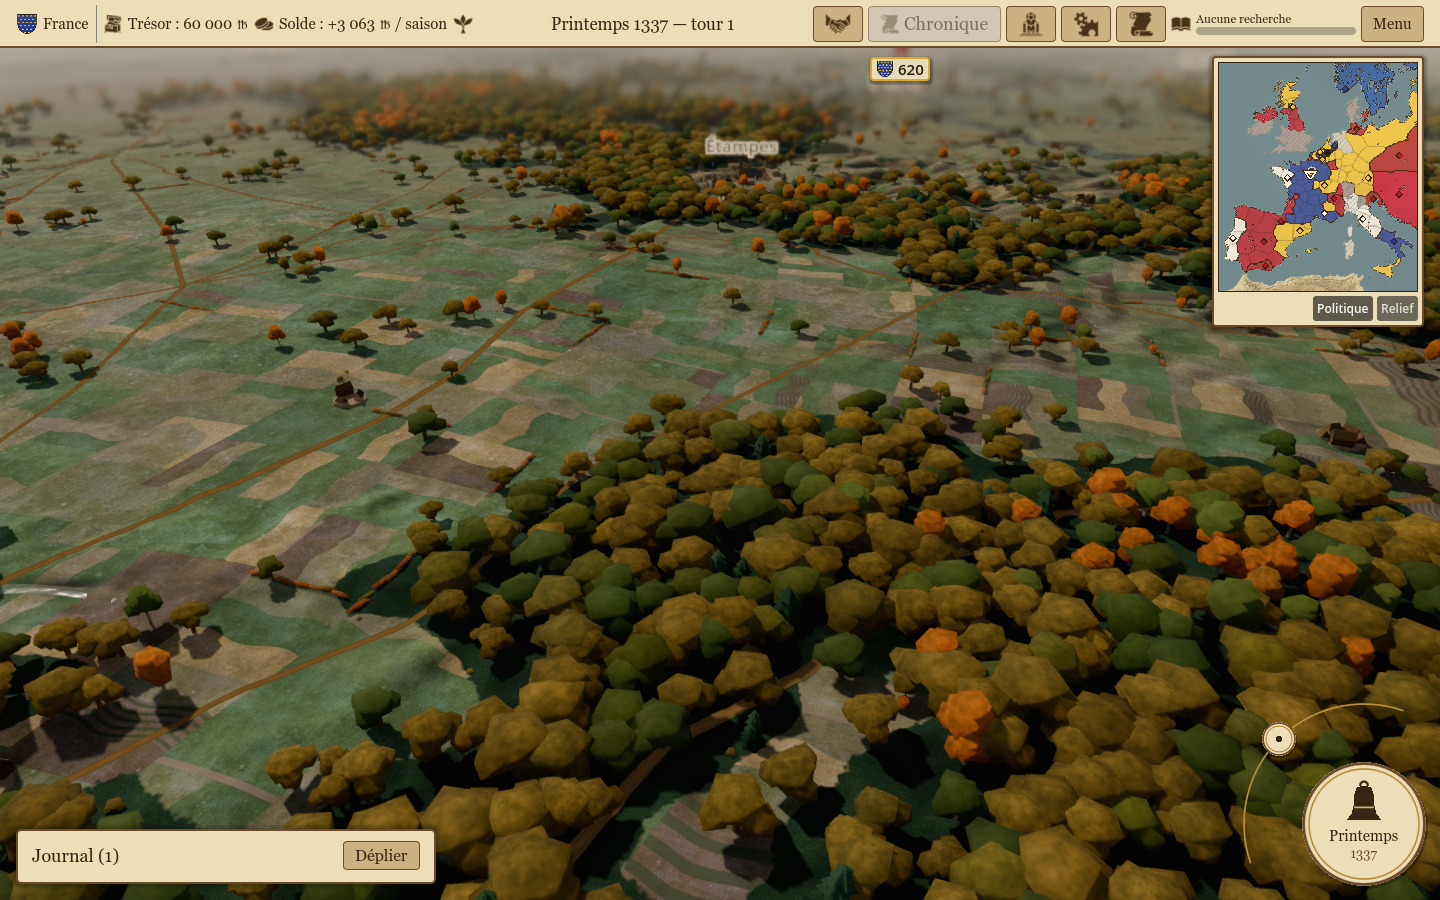
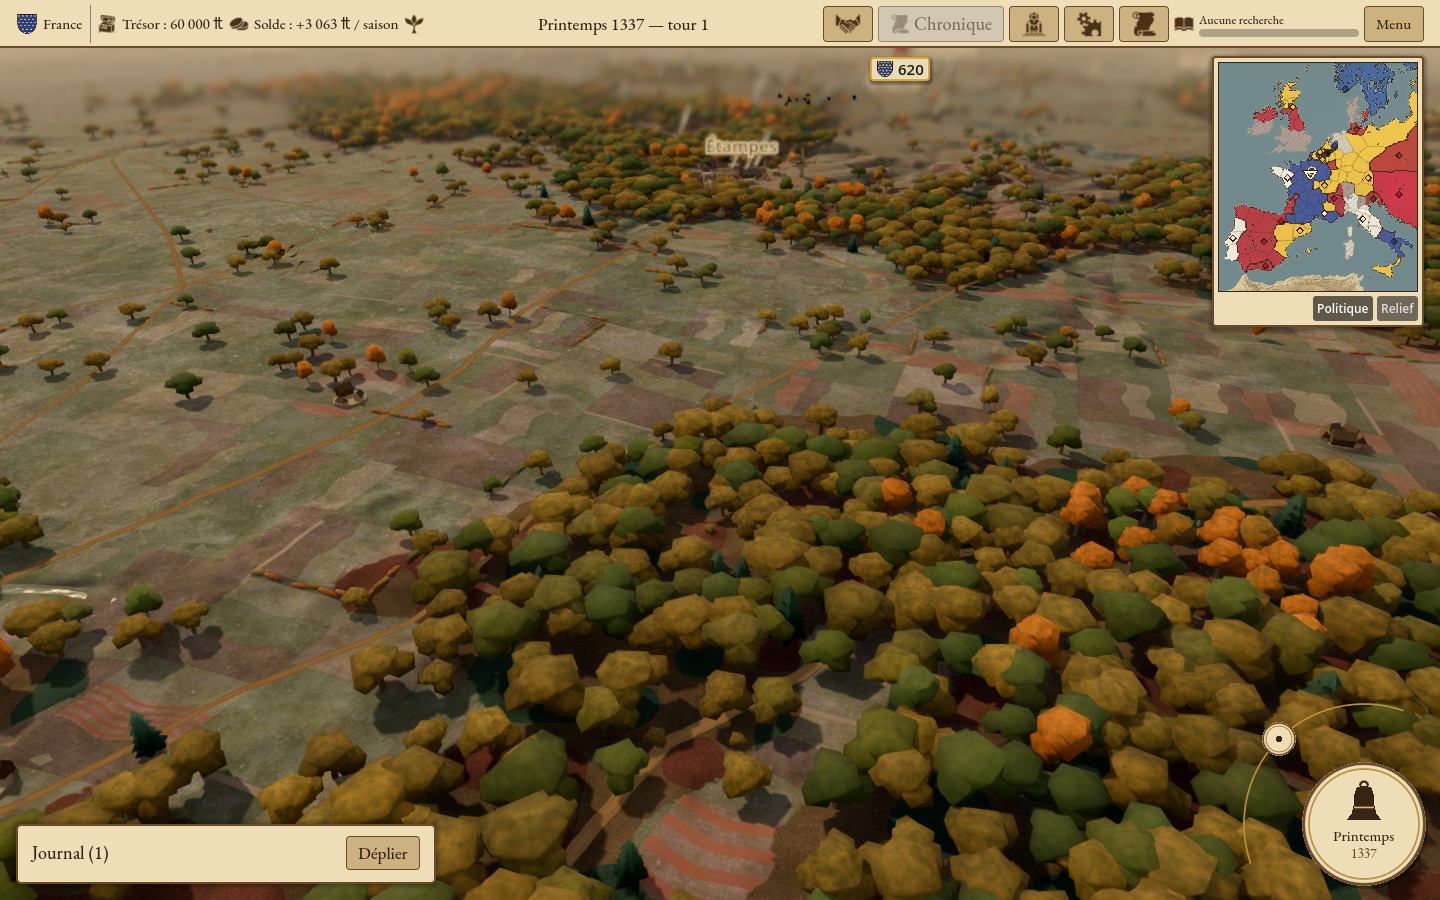
wip: V4 foliage seasons follow CV1 campaign_season weights; winter variant from CampaignLife

diff --git a/docs/wip/v4-fleuves-forets.md b/docs/wip/v4-fleuves-forets.md
@@ -1,6 +1,6 @@
 # V4 — Fleuves, ponts et forêts de la carte de campagne (lots A1-11, A1-10)
 
-Branche `worktree-agent-ae5685646cc8b59ac` (fusionne `main` jusqu'à a8e1cc7a : L1, R1, CV2…).
+Branche `worktree-agent-ae5685646cc8b59ac` (fusionne `main` jusqu'à 70c9e2e5 : L1, R1, CV1, CV2…).
 Rendu seulement. Captures : `docs/audit/captures/v4/` (`avant_*` sur main 356a1ad, `apres_*`).
 Banc : `godot --rendering-driver vulkan --disable-vsync --path game --script res://tests/v4_map_bench.gd`
 (Metal plafonne à 145 i/s et ne rend pas le temps GPU ; Vulkan/MoltenVK donne le temps GPU).
@@ -33,9 +33,10 @@ Banc : `godot --rendering-driver vulkan --disable-vsync --path game --script res
   Aucun asset tiers (les conifères Poly Haven, 30 000 triangles, sont écartés pour la carte).
 - Quatre essences (`VegetationTileJob.Kind` : chêne, hêtre, conifère, haie) ; houppiers élargis au
   cœur des massifs (canopée continue) ; hêtraie par taches selon l'altitude, recul dans le Midi.
-- Saisons (`foliage.gdshaderinc`, saison lue dans la date de la simulation, `--season=0..3` pour
-  les captures) : printemps tendre, automne roux / cuivré, hiver dénudé ajouré. La variante
-  `foliage_winter.gdshader` (discard) n'est employée qu'en hiver.
+- Saisons (`foliage.gdshaderinc`) : teintes par essence pondérées par le paramètre global
+  `campaign_season` du lot CV1 (`--season=winter` pour les captures) : printemps tendre, automne
+  roux / cuivré, hiver dénudé ajouré. La variante `foliage_winter.gdshader` (discard) n'est
+  employée qu'en hiver (poids hiver > 0,5, lu dans `CampaignLife.seasons`).
 - Sources interchangeables : `data/map/forest_cover.json` (schéma `forest_cover.schema.json`) :
   couverture = splat canal B (forêts vers 1340 du lot R1), part de résineux = `forest_kind.png`
   (R1), raster d'essences complet optionnel.
